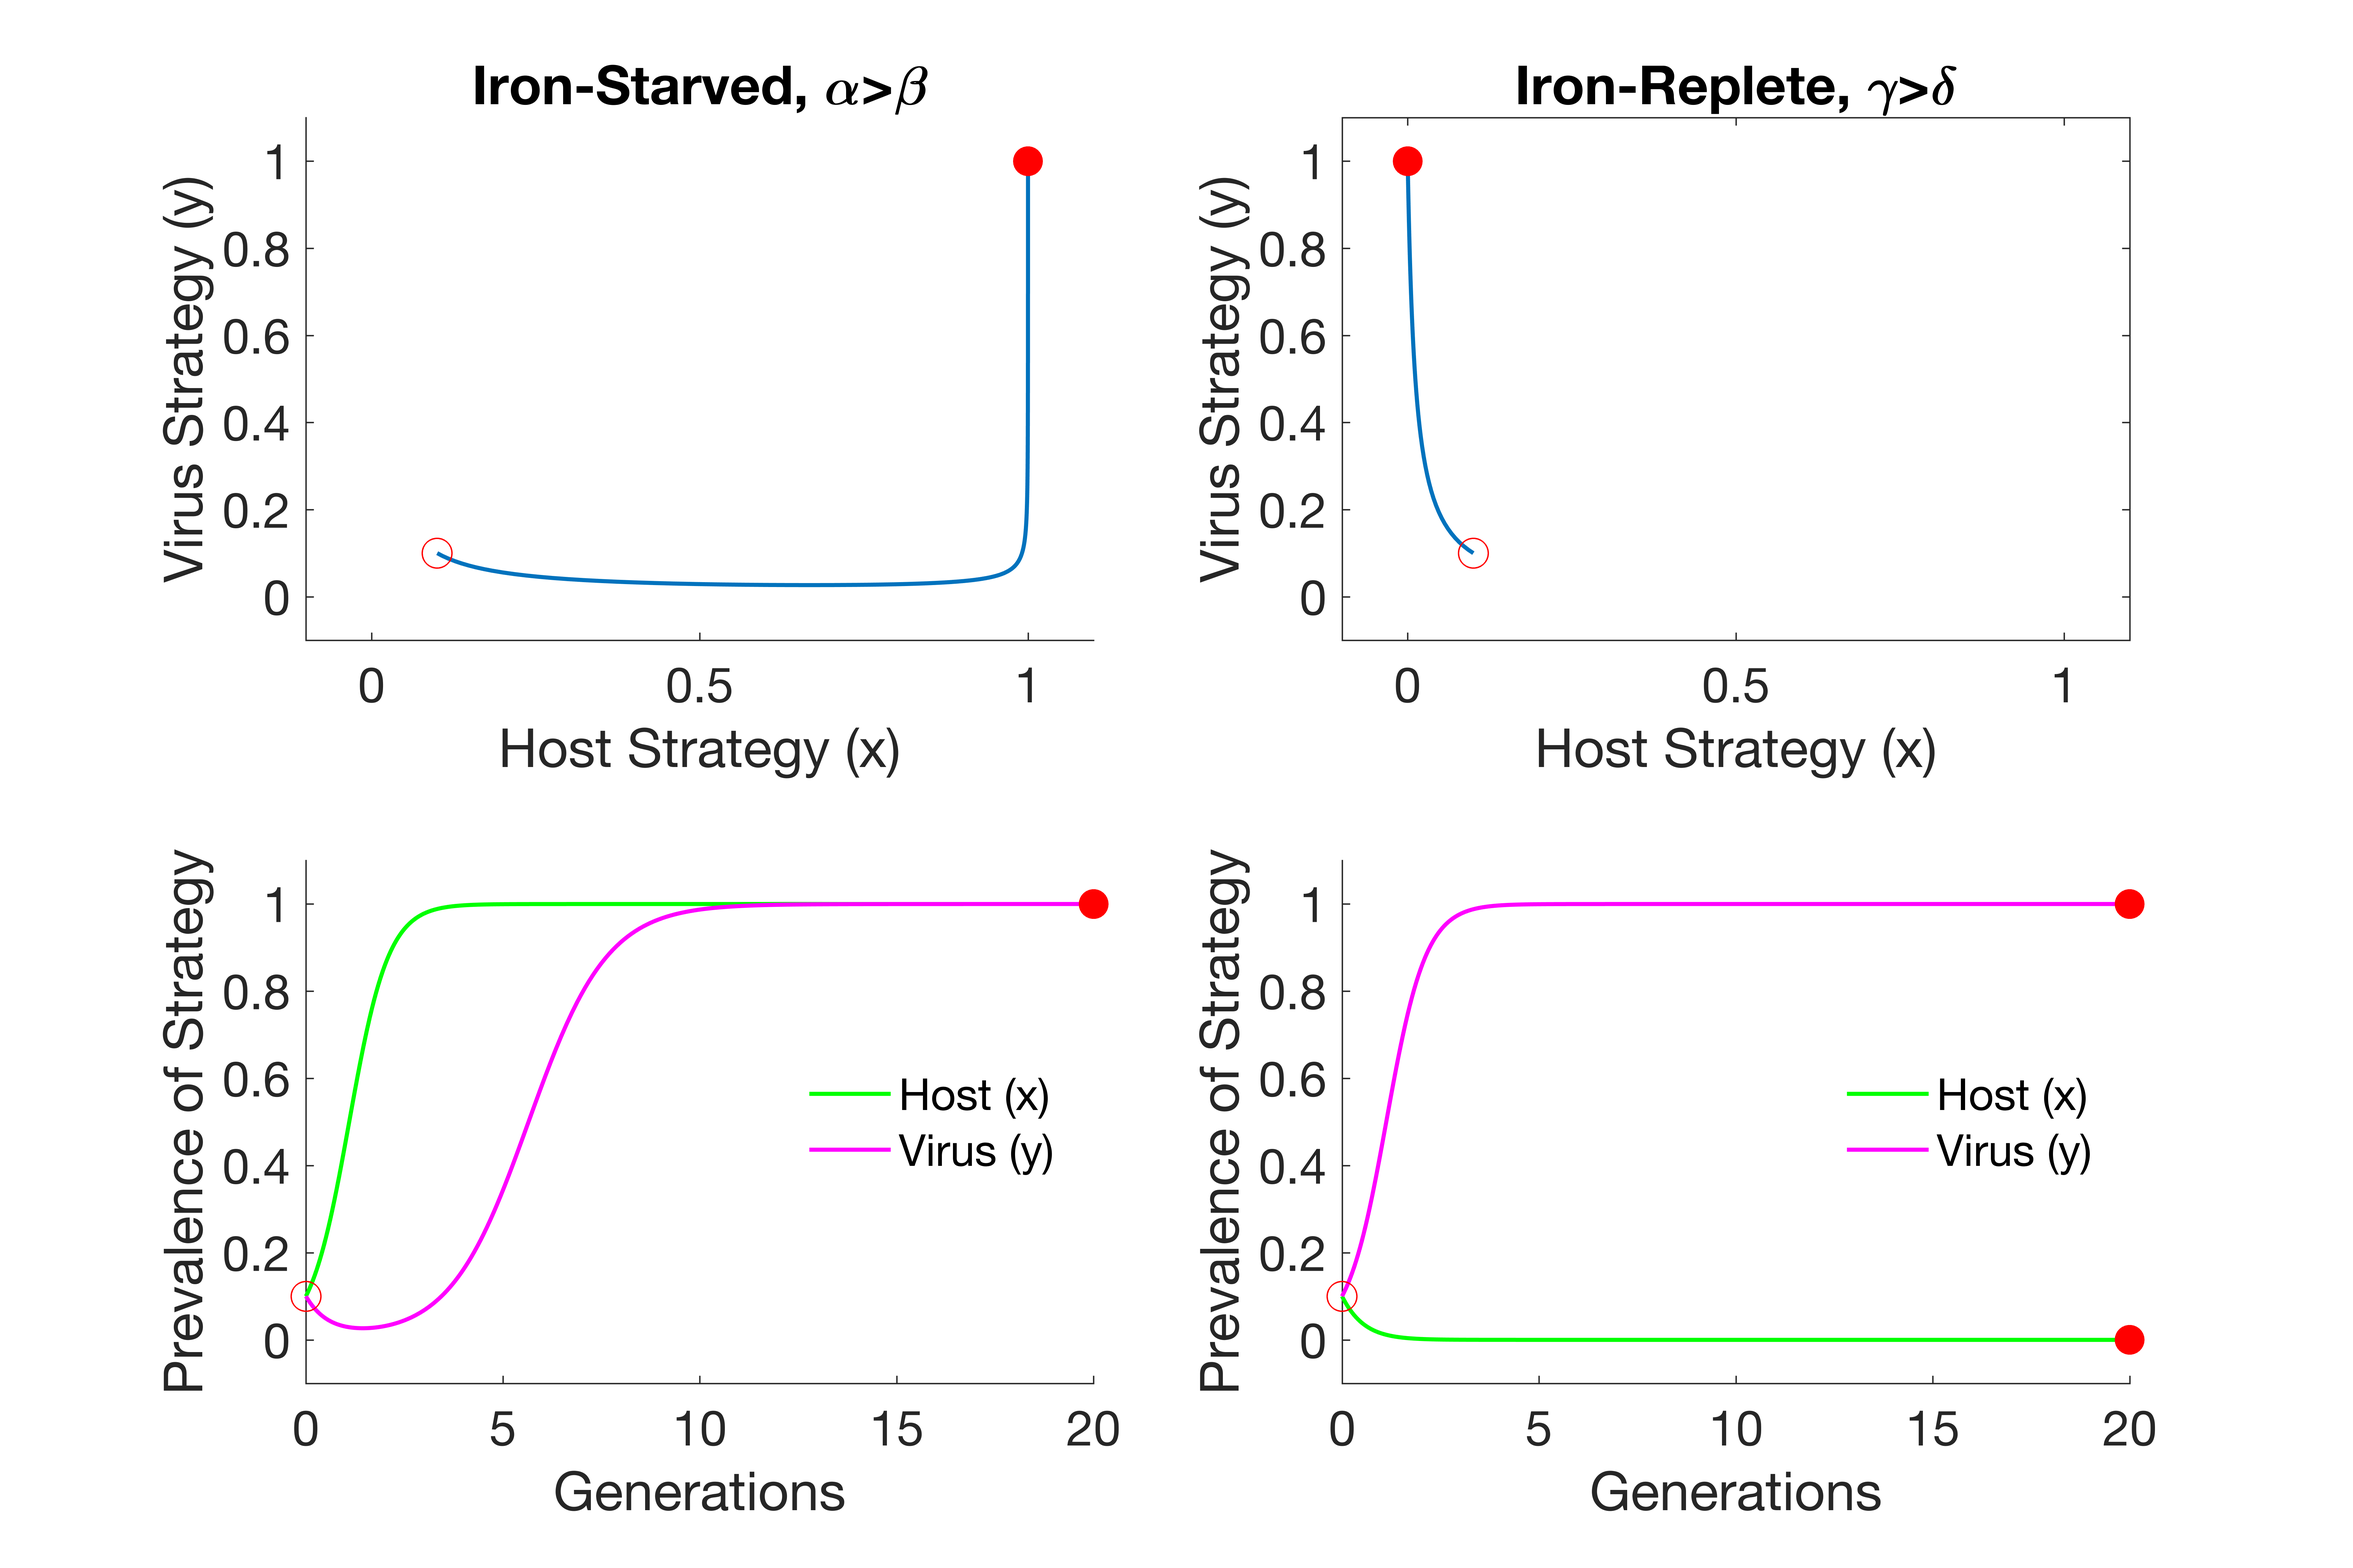
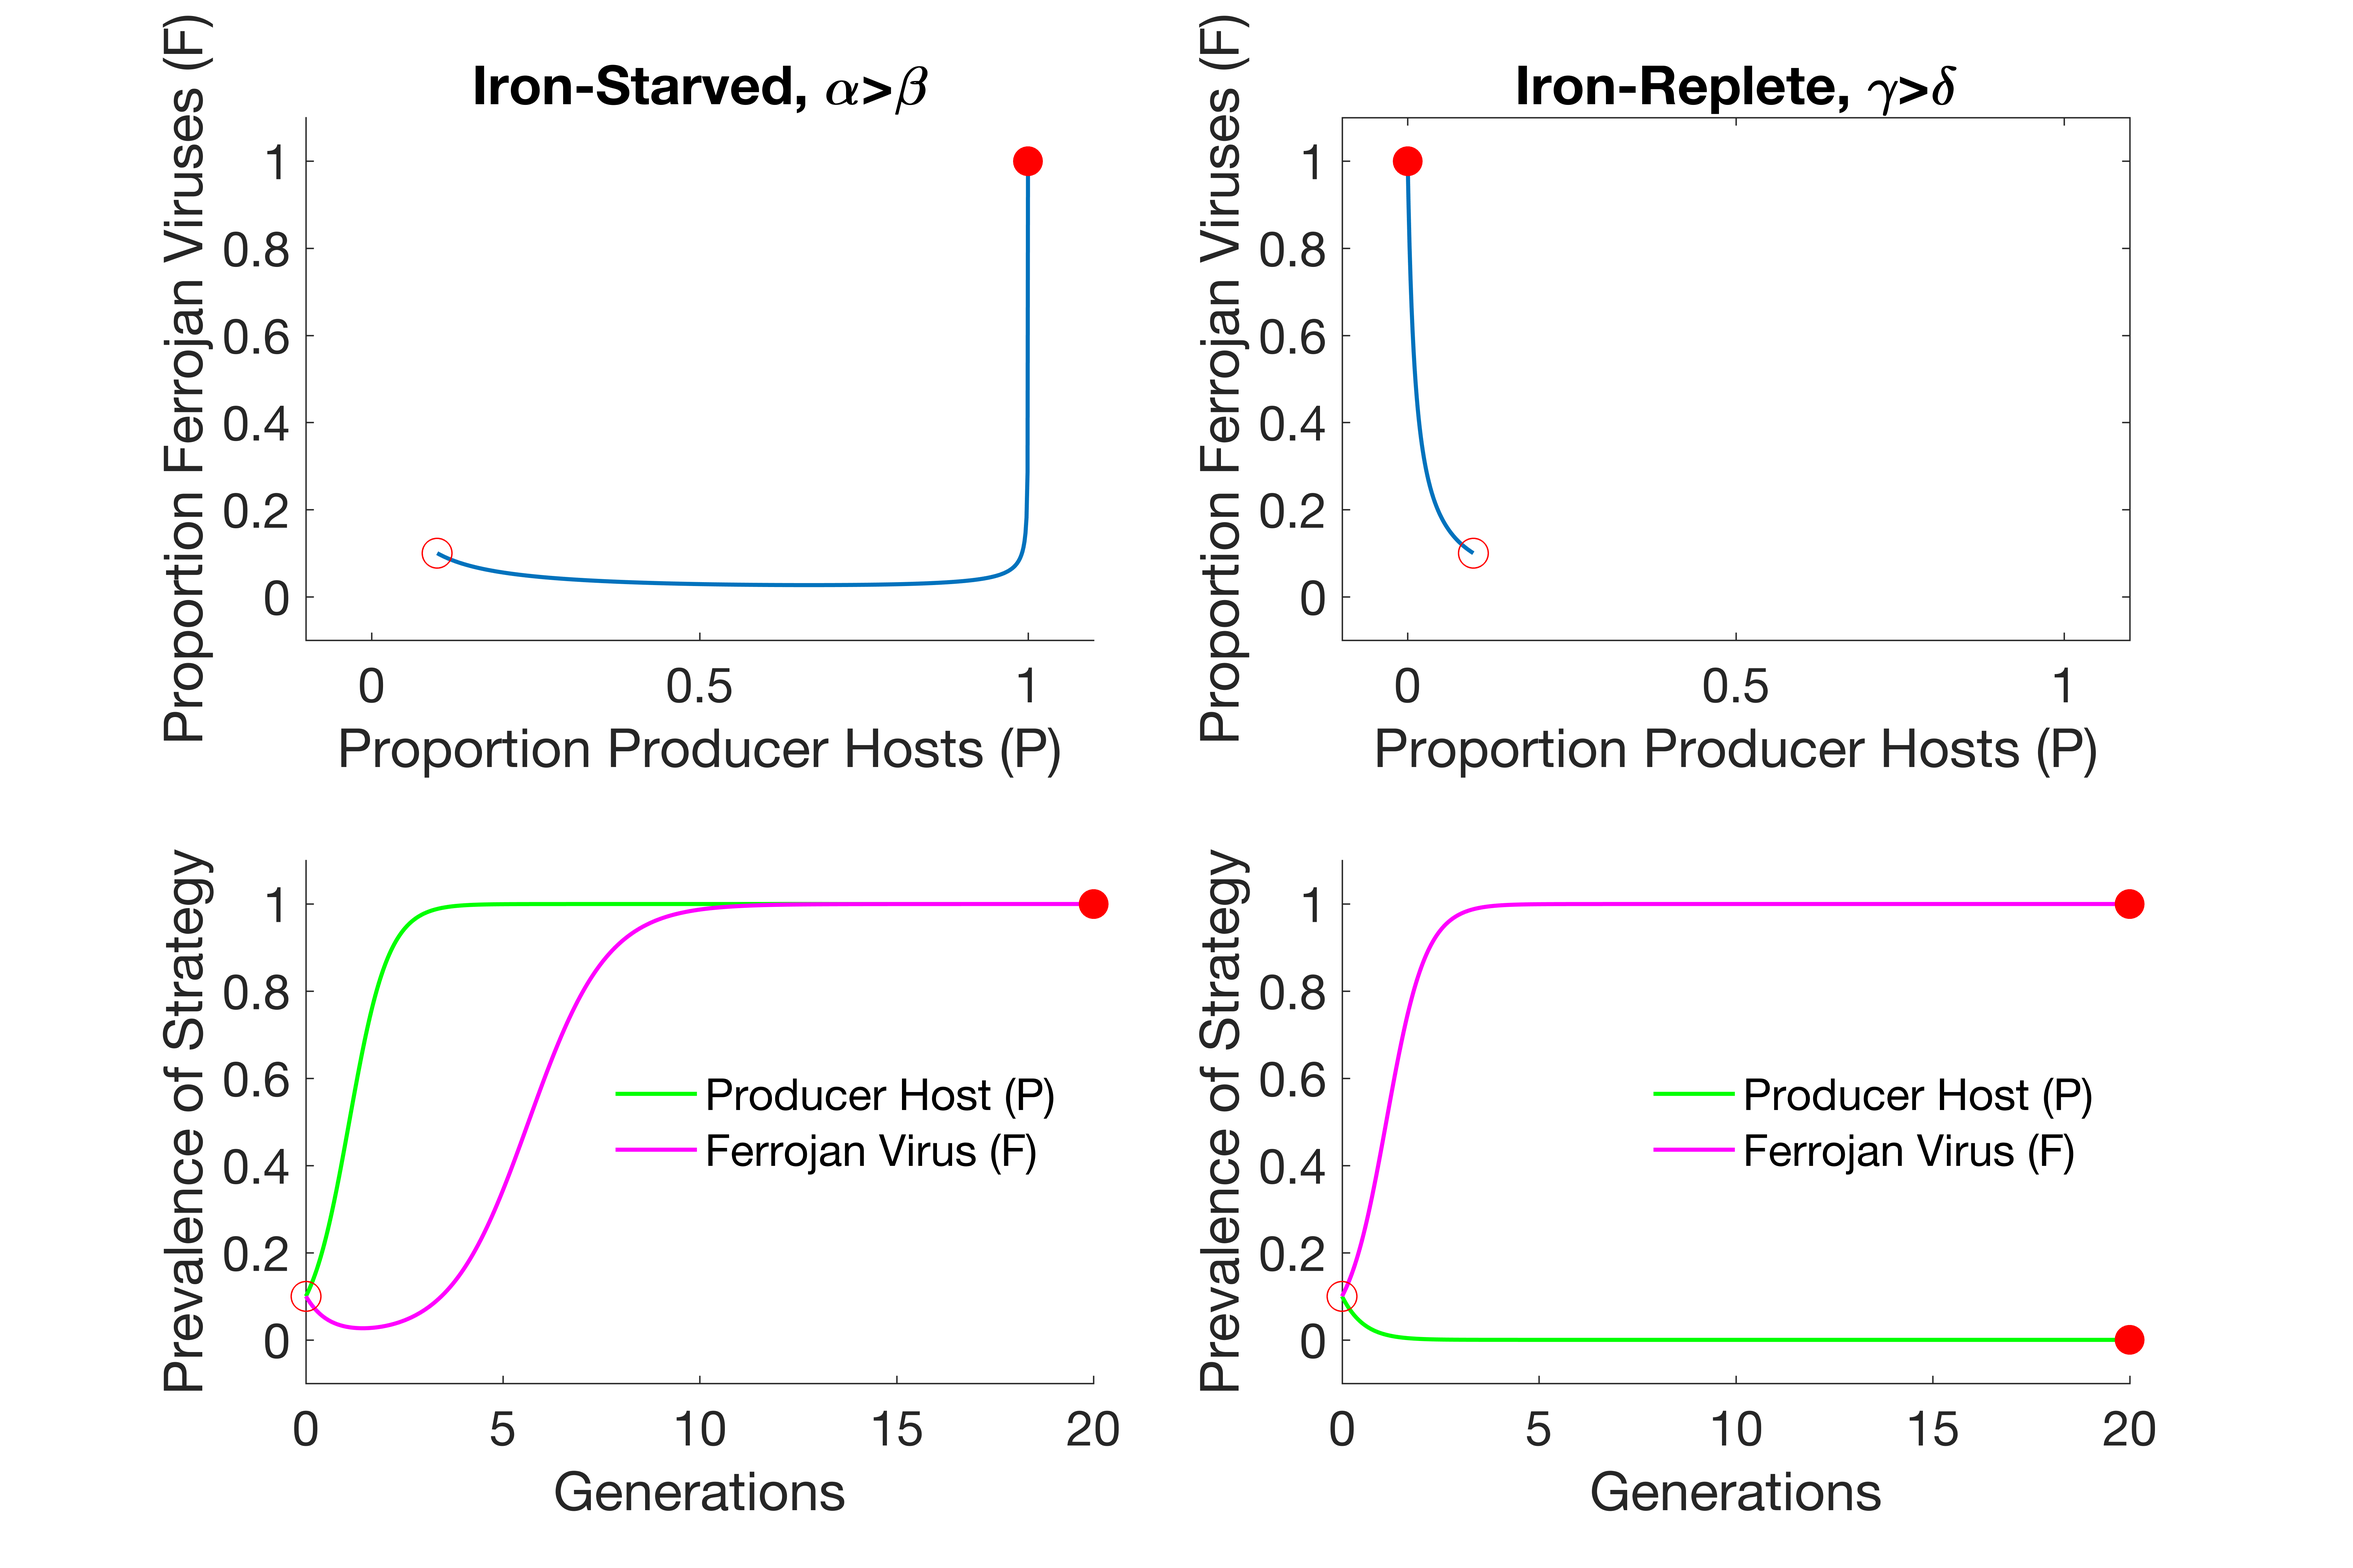
Updated figure code for final figure versions in publication

diff --git a/scripts/figure_A3.m b/scripts/figure_A3.m
@@ -5,10 +5,10 @@ addpath('../matlab_functions/')
 %% Executing Code
 % For details about interpretation, see appendix B.0.4
 % Establishing parameters
-hmat_n0=[4,4;3,2]; %Host payoff matrix for n=0 conditions
-vmat_n0=[3,4;1,4]; %Virus payoff matrix for n=0 conditions
-hmat_n1=[1,1;2,2.1]; %Host payoff matrix for n=1 conditions
-vmat_n1=[2,1;3,1]; %Virus payoff matrix for n=1 conditions
+hmat_n0=[2,2;1,1]; %Host payoff matrix for n=0 conditions
+vmat_n0=[4,3;4,3]; %Virus payoff matrix for n=0 conditions
+hmat_n1=[3,2;4,4.1]; %Host payoff matrix for n=1 conditions
+vmat_n1=[1,3;1,3]; %Virus payoff matrix for n=1 conditions
 thetay=1; %Environmental depletion for ferrojan virus frequency
 thetax=4; %Environmental restoration for cooperator host frequency
 % Model attributes
@@ -18,15 +18,15 @@ hc_nstar=solve_nstar(hmat_n0,hmat_n1,vmat_n0,vmat_n1,thetax,thetay);
 hc_xystar=solve_xystar(hc_nstar,hmat_n0,hmat_n1,thetax,thetay);
 
 % Solving the same things to show interior fixed points are not feasible
-hc2_nstar=solve_nstar(hmat_n0,hmat_n1+[0,0;0,1],vmat_n0,vmat_n1,thetax,thetay);
-hc2_xystar=solve_xystar(hc2_nstar,hmat_n0,hmat_n1+[0,0;0,1],thetax,thetay);
+hc2_nstar=solve_nstar(hmat_n0,hmat_n1+[0,0;0,-0.5],vmat_n0,vmat_n1,thetax,thetay);
+hc2_xystar=solve_xystar(hc2_nstar,hmat_n0,hmat_n1+[0,0;0,-0.5],thetax,thetay);
 
 % Generating random trajectories for interior fixed point feasible/not
 % feasible conditions
 rng(517803705)
 for i=1:10
 hc_net=run_feedback(hmat_n0,vmat_n0,hmat_n1,vmat_n1,thetax,thetay,true);
-hc_2=run_feedback(hmat_n0,vmat_n0,hmat_n1+[0,0;0,1],vmat_n1,thetax,thetay,true);
+hc_2=run_feedback(hmat_n0,vmat_n0,hmat_n1+[0,0;0,-0.5],vmat_n1,thetax,thetay,true);
 hc_x{i}=hc_net.outs;
 nhc_x{i}=hc_2.outs;
 end

diff --git a/scripts/figure_2.m b/scripts/figure_2.m
@@ -13,7 +13,7 @@ model_pars.hmat=hmat; %Assigning parameters for integration
 model_pars.vmat=vmat;
 t=[0 20]; % Running for 20 generations
 ics=[0.1,0.1]; % Initial fractions cooperator hosts, ferrojan viruses
-options=odeset('reltol',1e-7); % Numerical integration setting
+options=odeset('reltol',1e-7,'MaxStep',1e-3); % Numerical integration setting
 
 % Solving model
 [t1_out,xy1_out]=ode45(@bimat_no_feedback,t,ics,options,model_pars);
@@ -50,8 +50,8 @@ scatter(xy1_out(end,1),xy1_out(end,2),120,'r','filled')
 xlim([-0.1 1.1])
 ylim([-0.1 1.1])
 title('Iron-Starved, \alpha>\beta')
-xlabel('Host Strategy (x)')
-ylabel('Virus Strategy (y)')
+xlabel('Proportion Producer Hosts (P)')
+ylabel('Proportion Ferrojan Viruses (F)')
 hold off
 
 f(2)=subplot(2,2,2);
@@ -62,8 +62,8 @@ scatter(xy2_out(end,1),xy2_out(end,2),120,'r','filled')
 xlim([-0.1 1.1])
 title('Iron-Replete, \gamma>\delta')
 ylim([-0.1 1.1])
-xlabel('Host Strategy (x)')
-ylabel('Virus Strategy (y)')
+xlabel('Proportion Producer Hosts (P)')
+ylabel('Proportion Ferrojan Viruses (F)')
 hold off
 
 f(3)=subplot(2,2,3);
@@ -77,7 +77,7 @@ scatter(t1_out(end),xy1_out(end,2),120,'r','filled')
 ylim([-0.1 1.1])
 xlabel('Generations')
 ylabel('Prevalence of Strategy')
-legend('Host (x)','Virus (y)','Location','east')
+legend('Producer Host (P)','Ferrojan Virus (F)','Location','east')
 legend boxoff
 hold off
 
@@ -92,7 +92,7 @@ scatter(t2_out(end),xy2_out(end,2),120,'r','filled')
 ylim([-0.1 1.1])
 xlabel('Generations')
 ylabel('Prevalence of Strategy')
-legend('Host (x)','Virus (y)','Location','east')
+legend('Producer Host (P)','Ferrojan Virus (F)','Location','east')
 legend boxoff
 hold off
 

diff --git a/scripts/figure_3_and_A2.m b/scripts/figure_3_and_A2.m
@@ -12,12 +12,12 @@ exterior_n=[0,1,0,1,0,1,0,1]';
 %% First case we want to discuss, trivial disaster case
 % see [main text results] for details
 % Setting parameters
-hmat_n0=[3,2;5,4]'; %Host payoffs for n=0 case
-hmat_n1=[3,2;5,4]'; %Host payoffs for n=1 case
-vmat_n0=[2.5,2;4.5,4]; %Virus payoffs for n=0 case
-vmat_n1=[2.5,2;4.5,4]; %Virus payoffs for n=1 case
+hmat_n0=[3,2;5,4.2]'; %Host payoffs for n=0 case
+hmat_n1=[3,2;5,4]; %Host payoffs for n=1 case
+vmat_n0=[2.5,2.2;4.5,4]; %Virus payoffs for n=0 case
+vmat_n1=[2.5,2;4.5,4]'; %Virus payoffs for n=1 case
 thetay=1; %Environmental depletion per frequency ferrojan virus
-thetax=1; %Environmental restoration per frequency cooperator host
+thetax=1.5; %Environmental restoration per frequency cooperator host
 
 %% Find internal fixed points
 rc_nstar=solve_nstar(hmat_n0,hmat_n1,vmat_n0,vmat_n1,thetax,thetay);
@@ -34,10 +34,10 @@ resource_crash=run_feedback(hmat_n0,vmat_n0,hmat_n1,vmat_n1,thetax,thetay,false)
 %% Next case, heteroclinic network
 
 % Setting parameters as above
-hmat_n0=[4,4;3,2];
-vmat_n0=[3,4;1,4];
-hmat_n1=[1,1;2,2.1];
-vmat_n1=[2,1;3,1];
+hmat_n0=[2,2;1,1];
+vmat_n0=[4,3;4,3];
+hmat_n1=[3,2;4,4.1];
+vmat_n1=[1,3;1,3];
 thetay=1;
 thetax=4;
 

diff --git a/matlab_functions/run_feedback.m b/matlab_functions/run_feedback.m
@@ -46,7 +46,7 @@ else
     ics=[0.1 0.1 0.1];
 end
 % Adjusting Runge-Kutta 4th order integration parameters
-options=odeset('reltol',1e-7);
+options=odeset('reltol',1e-7,'MaxStep',1e-3);
 % Evaluating numerical integration
 [ts,outs]=ode45(@env_feedback,t,ics,options,pars);
 %% Saving outputs
